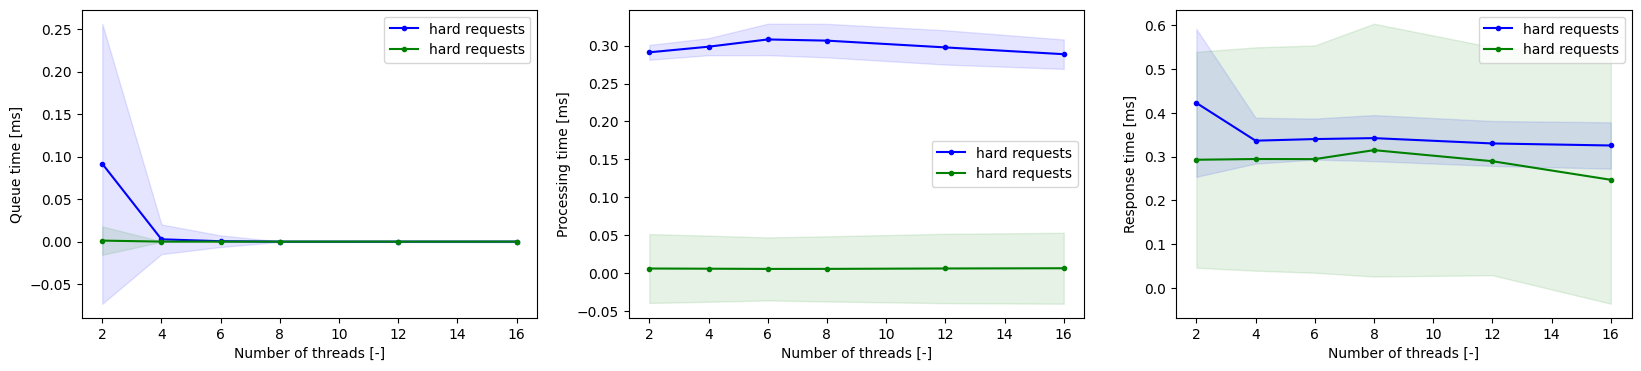
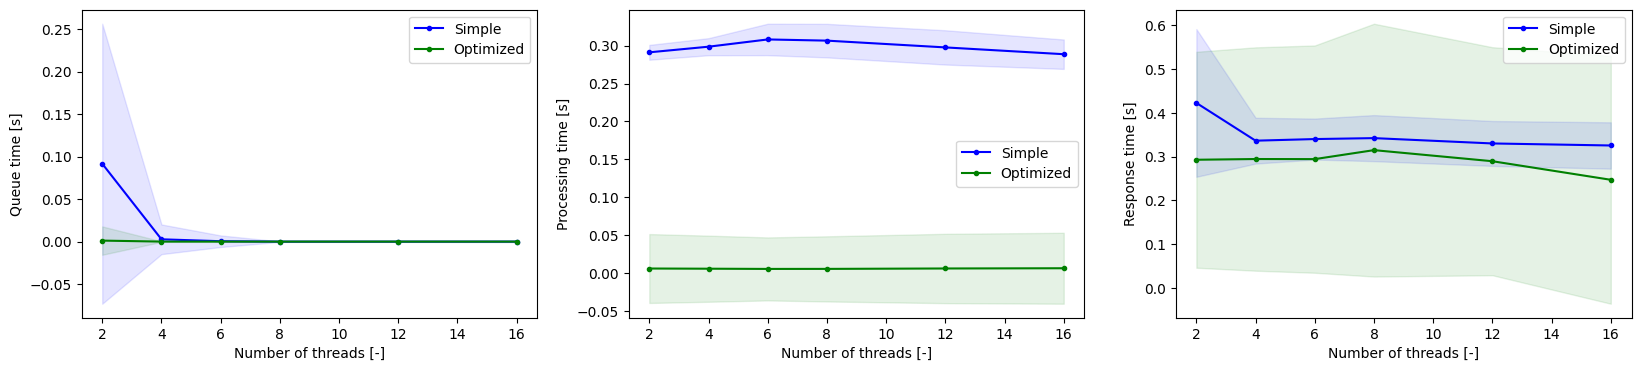
ms in simple-opti comparison

diff --git a/measures/plots.py b/measures/plots.py
@@ -65,7 +65,7 @@ for plot, input_variables, fig_name in zip(plots_optimized, input_values_optimiz
         # plot variables
         plt.subplot(1, len(plot_types), i+1)
         plt.xlabel(plot)
-        plt.ylabel(f"{plot_type} time [ms]")
+        plt.ylabel(f"{plot_type} time [s]")
         # iterate over requests types (easy, netw intensive, hard)
         for requests_type in optimized_requests_type:
             # iterate over different datapoints
